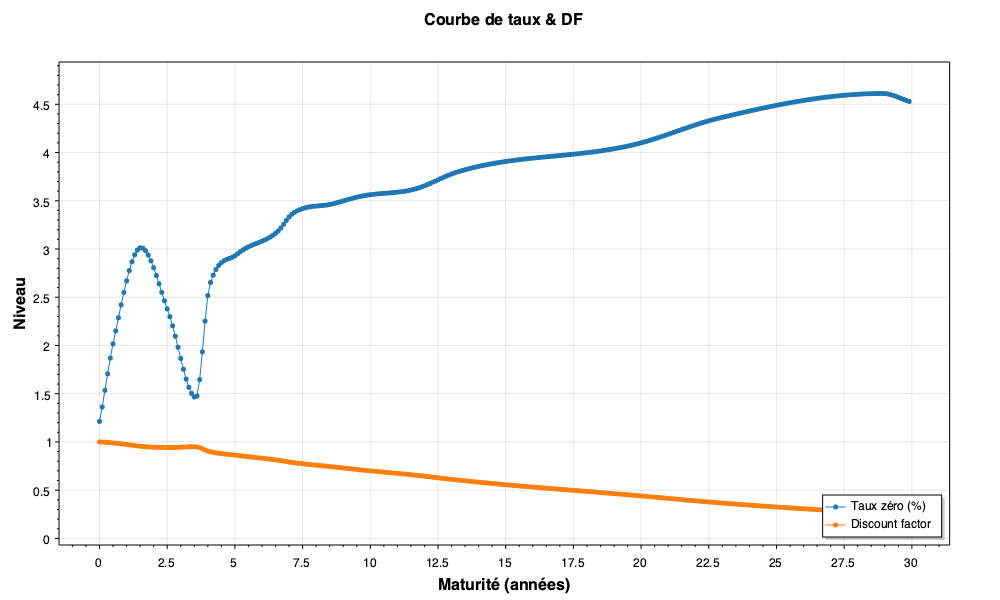
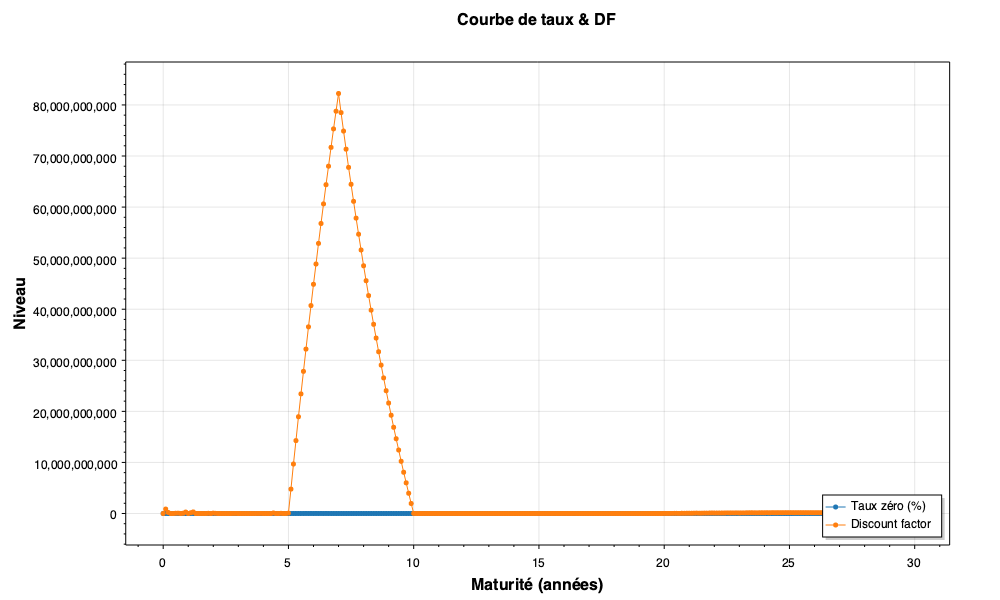
Refactor RateCurveProject: Update output files and enhance data loading
- Updated curve_plot.png and forward_plot.png with new visualizations.
- Modified curve_points.csv to include new data points and adjusted formatting.
- Revised metrics.csv to reflect updated calculations and metrics.
- Implemented MarketInstrumentMap for better CSV mapping in MarketDataLoader.
- Changed default method in Program.cs from HaganWest to SmithWilson.
- Updated instrument loading path to use courbe_euro.csv instead of instruments_sample.csv.
- Replaced instruments_sample.csv with a new dataset containing various financial instruments.
- Added courbe_euro.csv with detailed deposit and swap data for enhanced analysis.

diff --git a/RateCurveProject/src/Data/MarketDataLoader.cs b/RateCurveProject/src/Data/MarketDataLoader.cs
@@ -20,6 +20,19 @@ public class MarketInstrument
     public int FixedFreq { get; set; } // Fréquence des paiements fixes (ex: 1 pour annuel, 2 pour semi-annuel)
 }
 
+public sealed class MarketInstrumentMap : ClassMap<MarketInstrument>
+{
+    public MarketInstrumentMap()
+    {
+        Map(m => m.Type).Convert(args =>
+            Enum.Parse<InstrumentType>(args.Row.GetField("Type").ToLowerInvariant(), ignoreCase: true));
+        Map(m => m.MaturityYears);
+        Map(m => m.Rate);
+        Map(m => m.DayCount);
+        Map(m => m.FixedFreq);
+    }
+}
+
 public class MarketDataLoader
 {
     public List<MarketInstrument> LoadInstruments(string csvPath)
@@ -35,6 +48,9 @@ public class MarketDataLoader
 
         using var reader = new StreamReader(csvPath);
         using var csv = new CsvReader(reader, config);
+
+        // Enregistrer le mapping personnalisé
+        csv.Context.RegisterClassMap<MarketInstrumentMap>();
 
         // Lecture directe des instruments
         var instruments = csv.GetRecords<MarketInstrument>().ToList();

diff --git a/RateCurveProject/src/Program.cs b/RateCurveProject/src/Program.cs
@@ -44,7 +44,7 @@ public class Program
 
         // 1) Résoudre chemins robustement
         string projectRoot = FindProjectRoot();
-        string method = args.Length > 1 ? args[1] : "HaganWest";
+        string method = args.Length > 1 ? args[1] : "SmithWilson";
         string outArg = args.Length > 2 ? args[2] : "OutputRuns";
 
         string outputDir = ResolveOutputDir(outArg, projectRoot);
@@ -52,7 +52,7 @@ public class Program
 
         // 2) Charger données
         var loader = new MarketDataLoader();
-        var quotes = loader.LoadInstruments("/Users/yves-mariesaliou/Documents/Cours/M2 IEF 272/C#/PROJET/RateCurveProject/src/Samples/instruments_sample.csv");
+        var quotes = loader.LoadInstruments("/Users/yves-mariesaliou/Documents/Cours/M2 IEF 272/C#/PROJET/RateCurveProject/src/Samples/courbe_euro.csv");
         Console.WriteLine("Instruments chargés :");
 
         // Créez un tableau formaté avec ConsoleTable
